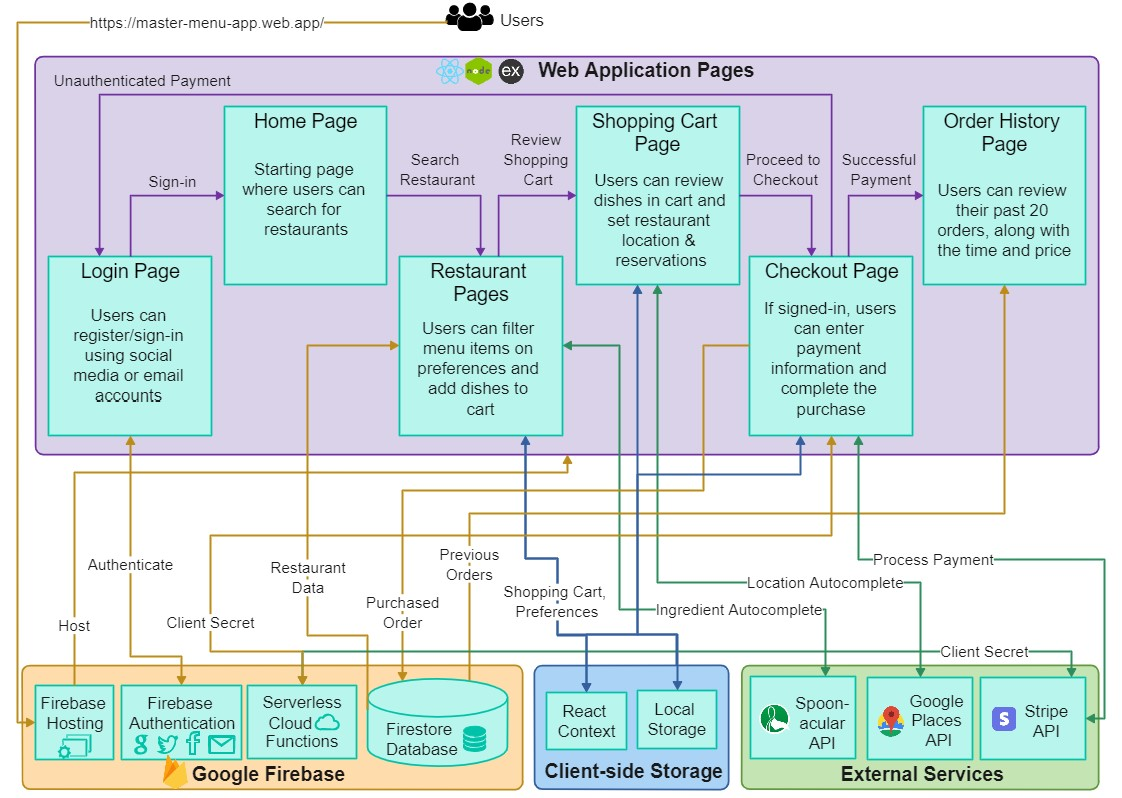
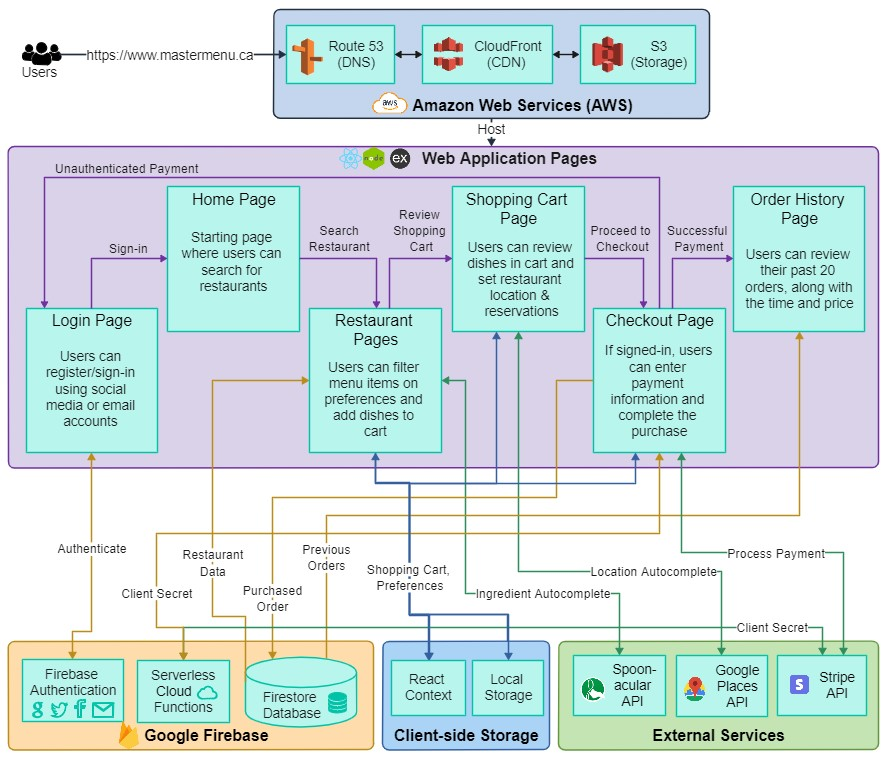
MM-32: Updated README.md for AWS hosting - Updated README.md description, features and tools - Updated architecture diagram - Added new domain on AWS, firebase and GCP consoles

diff --git a/README.md b/README.md
@@ -1,8 +1,9 @@
 <div>
-  <img align="left" src="https://badges.pufler.dev/created/Ayush-Warikoo/Master-Menu" />
+  <!-- <img align="left" src="https://badges.pufler.dev/created/Ayush-Warikoo/Master-Menu" /> -->
   <img align="left" src="https://badges.pufler.dev/updated/Ayush-Warikoo/Master-Menu" />
   <img align="right" src="https://img.shields.io/badge/Express.js-000000?style=for-the-badge&logo=express&logoColor=white" />
   <img align="right" src="https://img.shields.io/badge/Node.js-339933?style=for-the-badge&logo=nodedotjs&logoColor=white" />
+  <img align="right" src="https://img.shields.io/badge/Amazon_AWS-FF9900?style=for-the-badge&logo=amazonaws&logoColor=white" />
   <img align="right" src="https://img.shields.io/badge/firebase-ffca28?style=for-the-badge&logo=firebase&logoColor=black" />
   <img align="right" src="https://img.shields.io/badge/React-20232A?style=for-the-badge&logo=react&logoColor=61DAFB" />
 </div>
@@ -52,7 +53,9 @@
 
 # About the Project
 
-A deployed demo (with sample "McDonald's" and "PizzaPizza" pages) is available at [https://master-menu-app.web.app/](https://master-menu-app.web.app/).
+A deployed demo (with sample "McDonald's" and "PizzaPizza" pages) is available at [https://www.mastermenu.ca](https://www.mastermenu.ca/) (as well as [https://master-menu-app.web.app/](https://master-menu-app.web.app/)).
+
+
 
 ## Problem Statement
 This application was originally inspired by some of the problems I noticed around the inconveniences of eating out at restaurants, especially as a student:
@@ -71,9 +74,11 @@ Master Menu is a Firebase, React web application that minimizes the aforemention
 
 ## Description
 
-The following is a general description of the application that complements the diagram above, along with the application's usage and design decisions. The application leverages a FERN stack (i.e. Firebase, Express, React, Node), along with Stripe for payment processing and Google Places & Spoonacular API for autocomplete functionality. 
+The following is a general description of the application that complements the diagram above, along with the application's usage and design decisions. The application leverages a FERN stack (i.e. Firebase, Express, React, Node), along with Amazon Web Services for hosting, Stripe for payment processing and Google Places & Spoonacular API for autocomplete functionality. 
 
-Primarily, Firebase hosts the application and also handles user authentication. Users can create an account or sign in using their existing social media accounts (e.g. Google, Facebook, Github), which is required for purchases.  On the home page, users can search for restaurants (e.g. McDonalds and Pizza Pizza), which will take them to the individual restaurant page. 
+Primarily, Amazon Web Services are used to host the application, using Route 53 for DNS services, CloudFront for CDN services and S3 for file storage. When users visit the secure domain, CloudFront pulls the web application files from S3 buckets, and delivers the files to the appropriate IP address to create the webpage for users. As well, CloudFront provides caching services to avoid having to pull the files from S3 on every request, ensuring a low latency. 
+
+Next, Firebase facilitates user authentication and allows users to create an account or sign in using their existing social media accounts (e.g. Google, Facebook, Github), which is required for purchases.  On the home page, users can search for restaurants (e.g. McDonalds and Pizza Pizza), which will take them to the individual restaurant page. 
 
 All restaurant data (e.g. dish prices, ingredients, images) is retrieved from Firestore and presented using product components. Users can then input their personal preferences (e.g. diet, allergies/dietary restrictions) to highlight the product components that best suit their needs. When typing ingredients, the autocomplete is generated from Spoonacular APIs, where the current typed string is sent in the request and possible ingredients that match the query are sent back in the response and cached for optimization. The user can then add products to their shopping cart. The filter input is stored in React Context so that it is remembered when rendering/accessing new restaurant pages. The shopping cart items are also stored in React Context to make it easier to access across the app (many components need it) and it is also stored in Local Storage so that the cart products are remembered when revisiting or refreshing the page, as shown in the demo. 
 
@@ -85,7 +90,7 @@ Once again the cart products are retrieved from React Context/Local Storage. On 
 ## Demo and Images
 ![](readme-assets/Demo.gif) <br/>
 
-Demo the app yourself (with sample "McDonald's" and "PizzaPizza" pages) at https://master-menu-app.web.app/.
+Demo the app yourself (with sample "McDonald's" and "PizzaPizza" pages) at https://www.mastermenu.ca.
 
 <h3> Sample image of the Firestore database and of Stripe payment transactions</h3>
 <p width="100%" float="left" text-align="center">
@@ -96,7 +101,7 @@ Demo the app yourself (with sample "McDonald's" and "PizzaPizza" pages) at https
 ## Features
 The following includes a detailed list of implemented features/details:
 * Shopping cart products are cached and therefore remembered after closing the tab
-* Initial website render time is under 1.5 seconds on desktop through image management and preloading
+* Initial website render time is under 1.5 seconds on desktop through image management, preloading and CDN caching
 * Restaurant pages are completely dynamic, and only require data to be stored in Firestore for a new page to be generated 
 * Implemented notification system that is responsive to user actions (sign-in, sign-out, purchasing, etc) and restricts/warns users in case of errors 
 * Supports user sign-ins through Google, Facebook, Twitter, Github or Email account authentication 
@@ -110,6 +115,7 @@ The following includes a detailed list of implemented features/details:
   * Location is also protected by validation logic
 * Implemented payment authorization and processing
 * Allows authorized users to update and retrieve order history
+* Uses a secure and certified transfer protocol (HTTPS)
 
 ## Built With
 Languages
@@ -123,10 +129,14 @@ Development Tools/Libraries/Frameworks
   * React Context
   * React DOM
 * Firebase
-  * Firebase Hosting
   * Firebase Authentication
   * Firestore (Database)
   * Serverless Cloud Functions
+* AWS
+  * S3
+  * CloudFront
+  * Route 53
+  * Certificate Manager
 * NodeJS
 * Express
 
